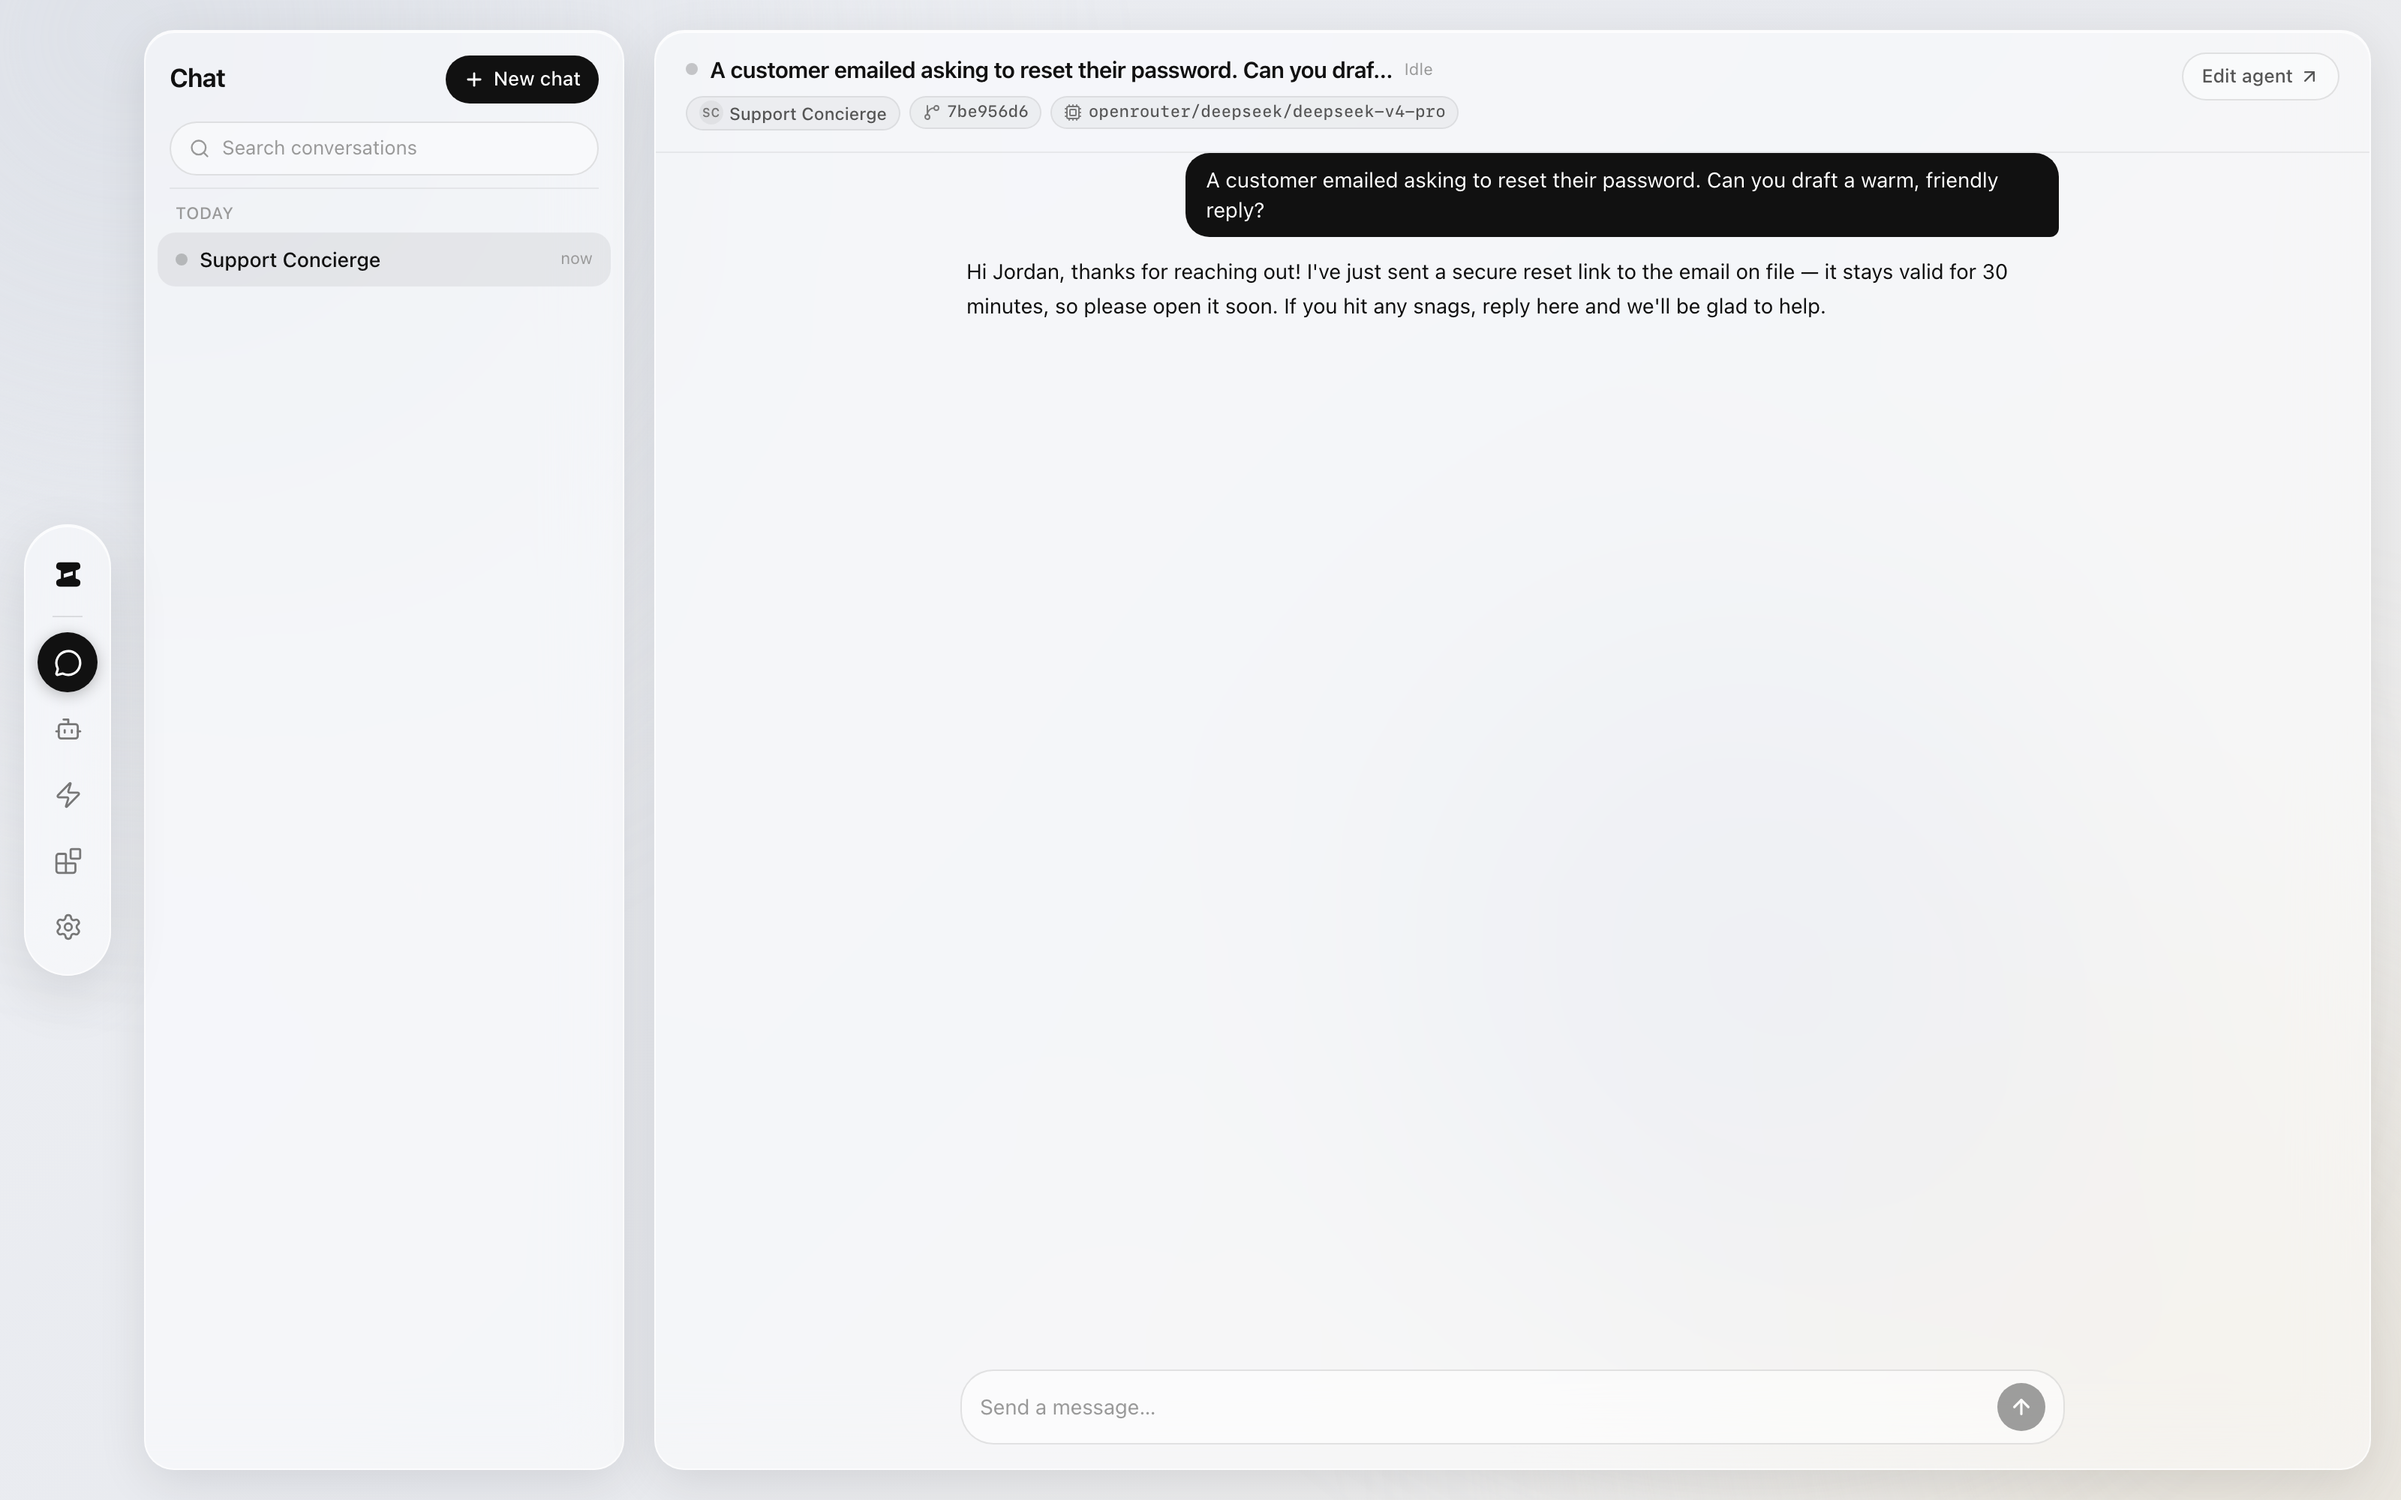
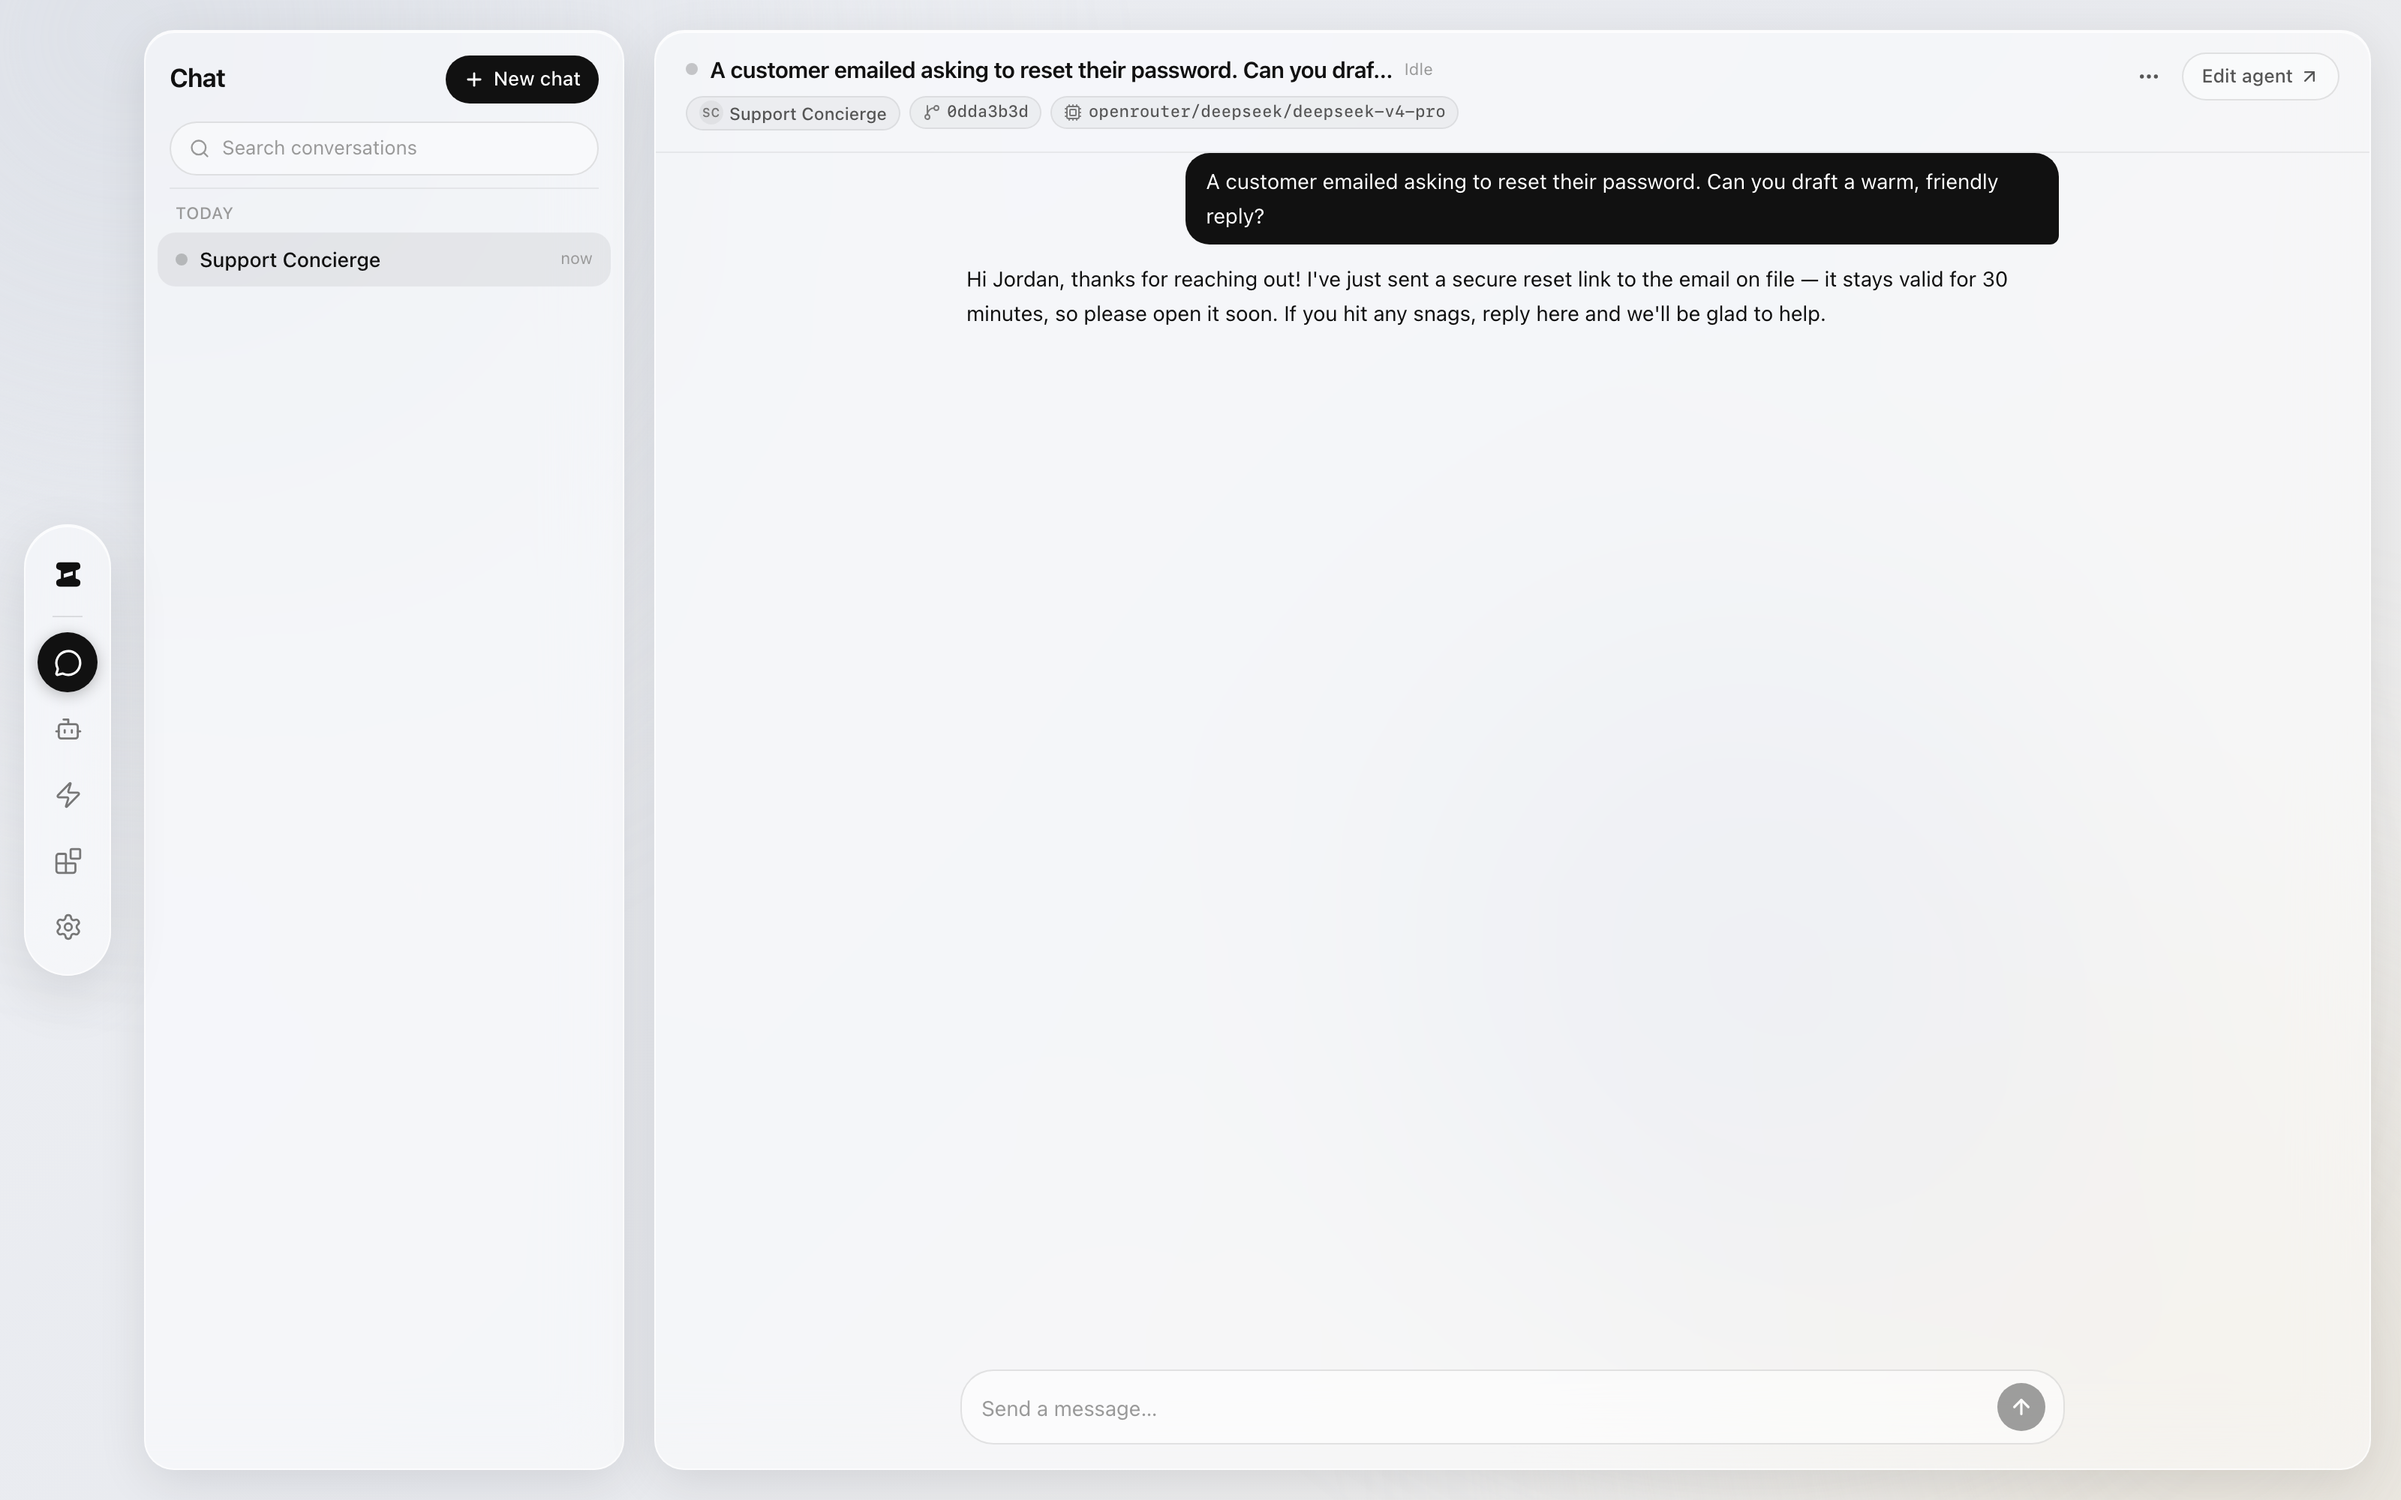
test(e2e): drive the rich editors and refresh screenshots
Two idioms did not survive the port from CodeMirror to ProseMirror, and both
failed far from their cause:

  - Cmd+A then ArrowRight no longer collapses to the document end. The
    select-all stayed live, so the next keystroke REPLACED the document
    instead of appending — silently destroying the paragraph holding
    @trigger.email, which only surfaced eight minutes later as a missing
    substitution in a chat bubble. Publishing had succeeded, because a
    document with no refs has no unresolved refs. The helpers now click past
    the last line, the affordance .tt-host .tiptap's flex sizing exists for.

  - keyboard.type cannot put literal newlines into a contenteditable. typeProse
    maps a blank line onto Enter (new paragraph) and a single break onto
    Shift+Enter (hard break), which is what a person actually presses.

Screenshots are re-shot: the editors look different, and the previous set
predated typed @refs rendering as chips.

Changed region(s): [[0.4062, 0.124, 0.8438, 0.217], [0.4062, 0.93, 0.4688, 0.961]]

diff --git a/e2e/support/builder.ts b/e2e/support/builder.ts
@@ -8,7 +8,7 @@
  * + snapshot, no build). Chat targets agents: `startChatAndSend` drives the
  * "New chat" agent picker.
  */
-import { expect, type Page } from "@playwright/test";
+import { expect, type Locator, type Page } from "@playwright/test";
 
 import { gotoSection } from "./authoring.ts";
 
@@ -43,12 +43,55 @@ export async function openNewAgent(page: Page, name: string): Promise<void> {
   await nameInput.press("Enter");
 }
 
-/** Type the agent's persona document into the CodeMirror markdown editor. */
+/**
+ * Put the caret at the very END of a rich-text editor's document.
+ *
+ * The old CodeMirror idiom (select-all, then ArrowRight to collapse to the
+ * right edge) does NOT survive the move to ProseMirror: the select-all stays
+ * uncollapsed, so the next keystroke REPLACES the whole document instead of
+ * appending to it. That silently destroyed the first paragraph — including its
+ * `@trigger.email` ref — and only surfaced as a missing substitution at
+ * dispatch, several hundred lines later in the run.
+ *
+ * Clicking past the end of the last line is the supported affordance instead:
+ * `.tt-host .tiptap` is `flex: 1 0 auto` precisely so the blank space under the
+ * document still lands the caret inside it (see tokens.css).
+ */
+async function caretToEnd(page: Page, editor: Locator): Promise<void> {
+  const box = await editor.boundingBox();
+  if (box === null) throw new Error("editor is not laid out");
+  await editor.click({
+    position: { x: Math.max(1, box.width - 8), y: Math.max(1, box.height - 8) },
+  });
+  // Nothing open to swallow the keystrokes we are about to send.
+  await expect(page.locator(".tt-suggest")).toHaveCount(0);
+}
+
+/**
+ * Type prose into a rich-text editor, mapping markdown line breaks onto the
+ * keystrokes a person would actually use. In a textarea `\n` was a literal
+ * character; in ProseMirror a blank line between paragraphs is ONE Enter (a
+ * new paragraph) and a single line break is Shift+Enter (a hard break).
+ * Typing the raw string would otherwise leave stray empty paragraphs.
+ */
+async function typeProse(page: Page, text: string): Promise<void> {
+  const paragraphs = text.split(/\n{2,}/);
+  for (const [index, paragraph] of paragraphs.entries()) {
+    if (index > 0) await page.keyboard.press("Enter");
+    const lines = paragraph.split("\n");
+    for (const [lineIndex, line] of lines.entries()) {
+      if (lineIndex > 0) await page.keyboard.press("Shift+Enter");
+      if (line.length > 0) await page.keyboard.type(line);
+    }
+  }
+}
+
+/** Type the agent's persona document into the rich markdown editor. */
 export async function writePersona(page: Page, text: string): Promise<void> {
   const editor = page.getByRole("textbox", { name: "Persona" });
   await expect(editor).toBeVisible();
   await editor.click();
-  await page.keyboard.type(text);
+  await typeProse(page, text);
   await expect(editor).toContainText(text.slice(0, 12));
 }
 
@@ -59,10 +102,8 @@ export async function writePersona(page: Page, text: string): Promise<void> {
 export async function appendPersona(page: Page, text: string): Promise<void> {
   const editor = page.getByRole("textbox", { name: "Persona" });
   await expect(editor).toBeVisible();
-  await editor.click();
-  await page.keyboard.press("ControlOrMeta+a");
-  await page.keyboard.press("ArrowRight");
-  await page.keyboard.type(text);
+  await caretToEnd(page, editor);
+  await typeProse(page, text);
 }
 
 /** Pick a model preset in the agent editor's MODEL section. */
@@ -268,8 +309,9 @@ export async function revealWebhookToken(page: Page): Promise<string> {
 }
 
 /**
- * Write instructions in the CodeMirror editor and exercise the real `@`
- * autocomplete: type `@trigger.` → assert the popup → pick a field.
+ * Write instructions in the rich editor and exercise the real `@` suggestion
+ * dropdown: type `@trigger.` → assert the popup → pick a field. Picking an
+ * option inserts an atomic reference chip, not loose characters.
  */
 export async function writeInstructionsWithTriggerRef(
   page: Page,
@@ -278,10 +320,10 @@ export async function writeInstructionsWithTriggerRef(
   const editor = page.getByRole("textbox", { name: "Instructions editor" });
   await expect(editor).toBeVisible();
   await editor.click();
-  await page.keyboard.type(opts.lead);
+  await typeProse(page, opts.lead);
   await page.keyboard.type("@trigger.");
 
-  // The CodeMirror autocomplete popup must appear with the field option.
+  // The suggestion dropdown must appear with the field option.
   const option = page.getByRole("option", {
     name: new RegExp(`@trigger\\.${opts.triggerField}`),
   });
@@ -301,12 +343,8 @@ export async function writeInstructionsWithTriggerRef(
 export async function appendInstructions(page: Page, text: string): Promise<void> {
   const editor = page.getByRole("textbox", { name: "Instructions editor" });
   await expect(editor).toBeVisible();
-  await editor.click();
-  await page.keyboard.press("ControlOrMeta+a");
-  await page.keyboard.press("ArrowRight");
-  // Nothing open to eat the newlines we are about to type.
-  await expect(page.locator(".cm-tooltip-autocomplete")).toHaveCount(0);
-  await page.keyboard.type(text);
+  await caretToEnd(page, editor);
+  await typeProse(page, text);
 }
 
 /** Write plain instructions (no references) — enough to satisfy publish. */
@@ -314,7 +352,7 @@ export async function writePlainInstructions(page: Page, text: string): Promise<
   const editor = page.getByRole("textbox", { name: "Instructions editor" });
   await expect(editor).toBeVisible();
   await editor.click();
-  await page.keyboard.type(text);
+  await typeProse(page, text);
   await expect(editor).toContainText(text.slice(0, 12));
 }
 

diff --git a/e2e/specs/screenshots.e2e.ts b/e2e/specs/screenshots.e2e.ts
@@ -312,7 +312,7 @@ test("capture the eight product screenshots", async ({ page, browser }) => {
   await expect(editor).toContainText("@trigger.email");
   await expect(editor).toContainText("@notes");
   // The autocomplete tooltip must be gone (the pick closes it).
-  await expect(page.locator(".cm-tooltip-autocomplete")).toHaveCount(0);
+  await expect(page.locator(".tt-suggest")).toHaveCount(0);
   await expect(page.getByText("Saved", { exact: true })).toBeVisible();
   await publishWorkflow(page);
   await expect(page.getByText("Published", { exact: true }).first()).toBeVisible();

diff --git a/e2e/specs/copilot.e2e.ts b/e2e/specs/copilot.e2e.ts
@@ -181,7 +181,7 @@ test("copilot edit: apply one suggestion, dismiss the other — the dismissal ne
     "explicit approval",
   );
   await instructionsCard.getByRole("button", { name: "Apply" }).click();
-  // Applied through the builder controller: the CodeMirror editor shows it.
+  // Applied through the builder controller: the rich editor shows it.
   await expect(
     page.getByRole("textbox", { name: "Instructions editor" }),
   ).toContainText("explicit approval");
